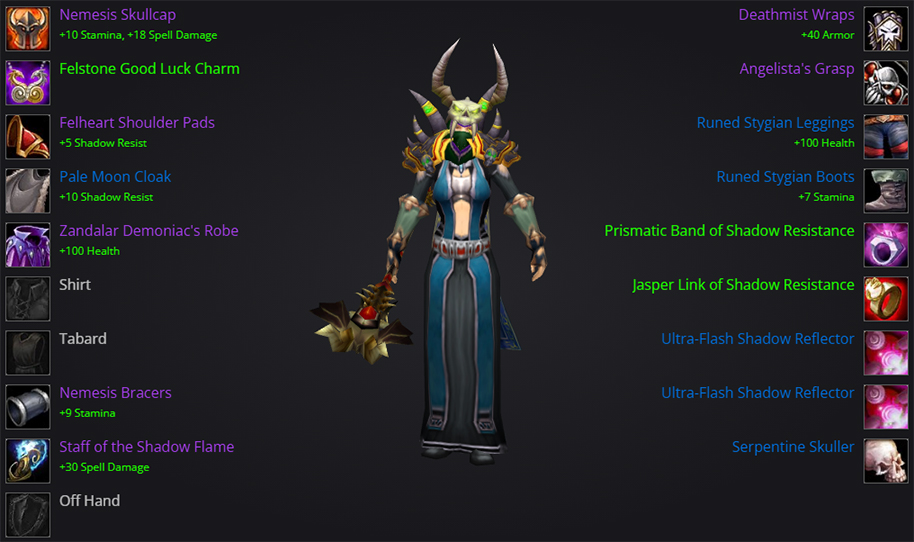
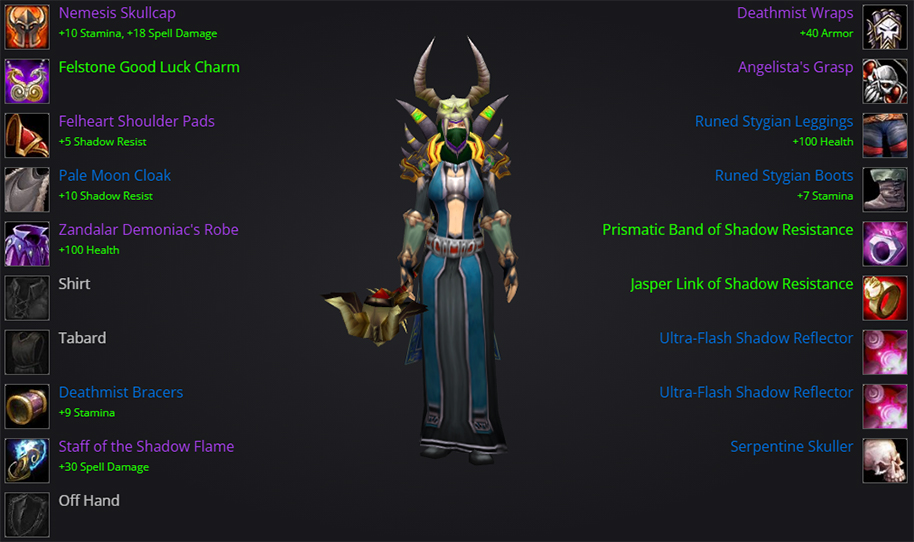
wrists done

diff --git a/index.html b/index.html
@@ -518,8 +518,8 @@
     		<img class="center-img" src="assets/twins/t2-sr-set.jpg" alt="T2 + Crafted SR Set.">
     		<figcaption>Fig 17: An example SR set using pre-AQ gear and crafted SR pieces.</figcaption>
     	</figure>
-    	<p><a href="#fig17">Figure 17</a> shows the aforementioned example SR set. With world buffs, consumes, raid buffs, and Flask of Titans, this provides over 9100 HP, 276 SR, and 4% Spell Hit. These values do NOT include Blessing of Kings or other faction specific buffs.</p>
-    	<p>I purposefully omitted Juno's Shadow and Eidolan Talisman, as these are rare/expensive BoE items. I also omitted the fantastic +10 SR leg/head enchants since these may not be available if you are not in Naxx content phase yet. Alternative items, and enchants, are detailed in the <a href="#gearing-items">Item Alternatives/Options</a> section.</p>
+    	<p><a href="#fig17">Figure 17</a> shows the aforementioned example SR set. With world buffs, consumes, raid buffs, and Flask of Titans, this provides over 9000 HP, 284 SR, and 4% Spell Hit. These values do NOT include Blessing of Kings or other faction specific buffs.</p>
+    	<p>I purposefully omitted Juno's Shadow and Eidolan Talisman, as these are rare/expensive BoE items. I also omitted the fantastic +10 SR leg/head enchants since these may not be available if you are not in Naxx content phase yet. Alternative items, and enchants, are detailed in the <a href="#gearing-items">Item Alternatives/Options</a> section. Note that Sixty Upgrades does not understand the Deathmist 2-set bonus.</p>
     	<p>For comparison, here is how an end-game SR set might look like with all content available: <a href="https://sixtyupgrades.com/era/set/24xqVozhj1vkXaQZN3Gi4J" target="_blank" rel="noopener noreferrer">End-Game SR</a></p>
     	<figure id="fig18">
     		<img class="center-img" src="assets/twins/bis-sr-set.jpg" alt="End-Game SR Set.">
@@ -593,9 +593,9 @@
 		<p><strong>I do NOT recommend Spellweaver's Turban.</strong> Yes it has Spell Hit, but it has zero Stamina. If you have no raid gear, I would much prefer any high Stamina item, even if it is just an Uncommon BoE item.</p>
 		<p><strong>For Head enchants we have a couple of options:</strong></p>
 		<ul>
-			<li><strong><a href="https://www.wowhead.com/classic/item=22638/shadow-guard" target="_blank" rel="noopener noreferrer">Shadow Guard:</a></strong> 10 SR, but sometimes pricey to get. Releases with Naxx content.</li>
-			<li><strong><a href="https://www.wowhead.com/classic/item=19788/hoodoo-hex" target="_blank" rel="noopener noreferrer">Hoodoo Hex:</a></strong> 10 Stam is decent, and if this is your main DPS Head it might be the way to go.</li>
-			<li><strong><a href="https://www.wowhead.com/classic/item=11642/lesser-arcanum-of-constitution" target="_blank" rel="noopener noreferrer">Lesser Arcanum of Constitution:</a></strong> 100 HP is okay, and this is an alternative if the above are unavailable. You can also consider the <a href="https://www.wowhead.com/classic/item=11646/lesser-arcanum-of-voracity" target="_blank" rel="noopener noreferrer">Lesser Arcanum of Voracity</a>, for +8 Stam, but the Librams are often expensive.</li>
+			<li><strong><a href="https://www.wowhead.com/classic/item=22638/shadow-guard" target="_blank" rel="noopener noreferrer">Shadow Guard:</a></strong> +10 SR, but sometimes pricey to get. Releases with Naxx content.</li>
+			<li><strong><a href="https://www.wowhead.com/classic/item=19788/hoodoo-hex" target="_blank" rel="noopener noreferrer">Hoodoo Hex:</a></strong> +10 Stam is decent, and if this is your main DPS Head it might be the way to go.</li>
+			<li><strong><a href="https://www.wowhead.com/classic/item=11642/lesser-arcanum-of-constitution" target="_blank" rel="noopener noreferrer">Lesser Arcanum of Constitution:</a></strong> +100 HP is okay, and this is an alternative if the above are unavailable. You can also consider the <a href="https://www.wowhead.com/classic/item=11646/lesser-arcanum-of-voracity" target="_blank" rel="noopener noreferrer">Lesser Arcanum of Voracity</a>, for +8 Stam, but the Librams are often expensive.</li>
 		</ul>
 
 		<h4 id="gearing-items-neck">5.3.2 Neck</h4>
@@ -700,7 +700,7 @@
 		<p>If you don't have T1 shoulders, there are many options that have high stamina. I would fallback on those if you don't have T1.</p>
 		<p><strong>For Shoulder enchants we have one clear option:</strong></p>
 		<ul>
-			<li><strong><a href="https://www.wowhead.com/classic/item=18173/shadow-mantle-of-the-dawn" target="_blank" rel="noopener noreferrer">Shadow Mantle of the Dawn:</a></strong> 5 SR, decent if you are Revered with Argent Dawn. At Exalted there is also the Chromatic version for +5 to all resistances.</li>
+			<li><strong><a href="https://www.wowhead.com/classic/item=18173/shadow-mantle-of-the-dawn" target="_blank" rel="noopener noreferrer">Shadow Mantle of the Dawn:</a></strong> +5 SR, decent if you are Revered with Argent Dawn. At Exalted there is also the Chromatic version for +5 to all resistances.</li>
 		</ul>
 		<p>However, 5 SR is not a ton. If these are your main DPS shoulders and you have the Zandalar Signet of Mojo, or Power of the Scourge, on them that is generally fine. If it's just for Twins though I would recommend the AD enchant. There is also Fortitude of the Scourge from Sapph, with 16 Stam, but good luck getting that - if you have it you probably didn't need this guide!</p>
 
@@ -774,7 +774,7 @@
 		</div>
 		<p><strong>We have a clear best enchant here:</strong></p>
 		<ul>
-			<li><strong><a href="https://www.wowhead.com/classic/spell=13522/enchant-cloak-lesser-shadow-resistance" target="_blank" rel="noopener noreferrer">Lesser Shadow Resistance:</a></strong> 10 SR. If there is no Astral Essence on the AH you may need to find some items to disenchant.</li>
+			<li><strong><a href="https://www.wowhead.com/classic/spell=13522/enchant-cloak-lesser-shadow-resistance" target="_blank" rel="noopener noreferrer">Lesser Shadow Resistance:</a></strong> +10 SR. If there is no Astral Essence on the AH you may need to find some items to disenchant.</li>
 		</ul>
 		<p>If for some reason you cannot find an enchanter with +10 SR, you can go with Greater Resistance (+5 all resistances).</p>
 
@@ -852,13 +852,60 @@
 		<p>Generally speaking, if you do not have at least T1 Chest I would recommend you just wear the highest Stam item that you can.</p>
 		<p><strong>For our Chest enchant we want:</strong></p>
 		<ul>
-			<li><strong><a href="https://www.wowhead.com/classic/spell=20026/enchant-chest-major-health" target="_blank" rel="noopener noreferrer">Major Health:</a></strong> 100 HP.</li>
+			<li><strong><a href="https://www.wowhead.com/classic/spell=20026/enchant-chest-major-health" target="_blank" rel="noopener noreferrer">Major Health:</a></strong> +100 HP.</li>
 		</ul>
 		<p>Generally this or +4 Stats is my recommendation for Hardcore anyway. If you cannot run 100 HP, because you really want to keep +stats on your main DPS gear, it is worse but not the end of the world.</p>
 
 		<h4 id="gearing-items-wrist">5.3.6 Wrist</h4>
 		<div class="#item-list-group">
+			<div class="item-entry">
+			    <div class="item-primary-group"> <img src="assets/twins/gear/bracers-of-arcane-accuracy.jpg" alt="Bracers of Arcane Accuracy" class="item-icon">
+			        <div class="item-details-stats">
+				        <h4><a href="https://www.wowhead.com/classic/item=19374/bracers-of-arcane-accuracy" target="_blank" rel="noopener noreferrer" class="item-quality-epic">Bracers of Arcane Accuracy</a></h4>
+				        <p>+9 Stamina<br>
+				    	+1% Spell Hit<br>
+				    	+21 Spell Power</p>
+			        </div>
+			    </div>
+			    <div class="item-details-notes">
+			        <p><strong>Source: BWL</strong><br>
+			        If your set already has lots of Stam you can consider these for the 1% Hit. Comparable to Rockfury Bracers, but I prefer these for Twins since they have very slightly higher Stam.</p>
+			    </div>
+			</div>
+			<div class="item-entry">
+			    <div class="item-primary-group"> <img src="assets/twins/gear/bracers-of-arcane-accuracy.jpg" alt="Nemesis Bracers" class="item-icon">
+			        <div class="item-details-stats">
+				        <h4><a href="https://www.wowhead.com/classic/item=16934/nemesis-bracers" target="_blank" rel="noopener noreferrer" class="item-quality-epic">Nemesis Bracers</a></h4>
+				        <p>+21 Stamina<br>
+				    	+15 Spell Power</p>
+			        </div>
+			    </div>
+			    <div class="item-details-notes">
+			        <p><strong>Source: BWL</strong><br>
+			        Really nice Stam item.</p>
+			    </div>
+			</div>
+			<div class="item-entry">
+			    <div class="item-primary-group"> <img src="assets/twins/gear/deathmist-bracers.jpg" alt="Deathmist Bracers" class="item-icon">
+			        <div class="item-details-stats">
+				        <h4><a href="https://www.wowhead.com/classic/item=22071/deathmist-bracers" target="_blank" rel="noopener noreferrer" class="item-quality-rare">Deathmist Bracers</a></h4>
+				        <p>+12 Stamina<br>
+				        +8 Spell Power<br>
+				    	+8 SR<strong>*</strong></p>
+			        </div>
+			    </div>
+			    <div class="item-details-notes">
+			        <p><strong>Source: T0.5</strong><br>
+			        I really like these, when paired with Deathmist Wraps. <strong>*The +8 SR is the 2-set T0.5 bonus.</strong></p>
+			    </div>
+			</div>
 		</div>
+		<p>If you're using Deathmist Wraps, likely choose Deathmist Bracers for your first time tanking Twins. It's a nice little bump to our SR without losing too much Stam. If you have lots of SR already, then you cannot go wrong choosing whichever has the most Stam - T2, T1, and ZG tier set Wrists all have a lot of Stam.</p>
+		<p><strong>For our Wrist enchant we want:</strong></p>
+		<ul>
+			<li><strong><a href="https://www.wowhead.com/classic/spell=20011/enchant-bracer-superior-stamina" target="_blank" rel="noopener noreferrer">Superior Stamina:</a></strong> +9 Stam.</li>
+		</ul>
+
 		<h4 id="gearing-items-hands">5.3.7 Hands</h4>
 		<div class="#item-list-group">
 		</div>
